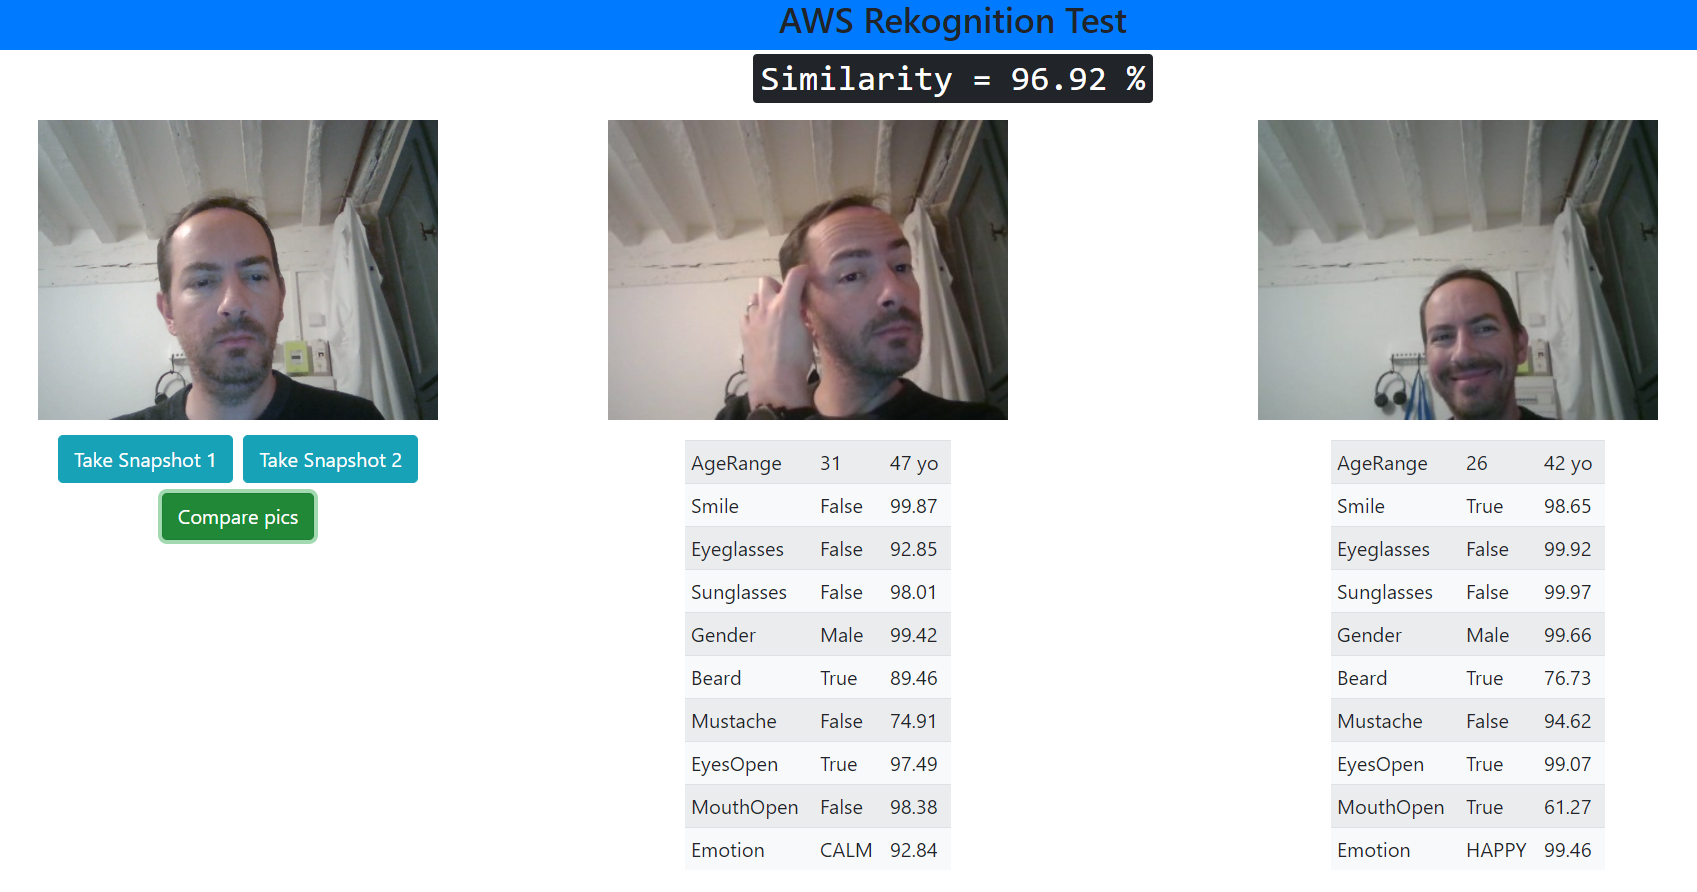
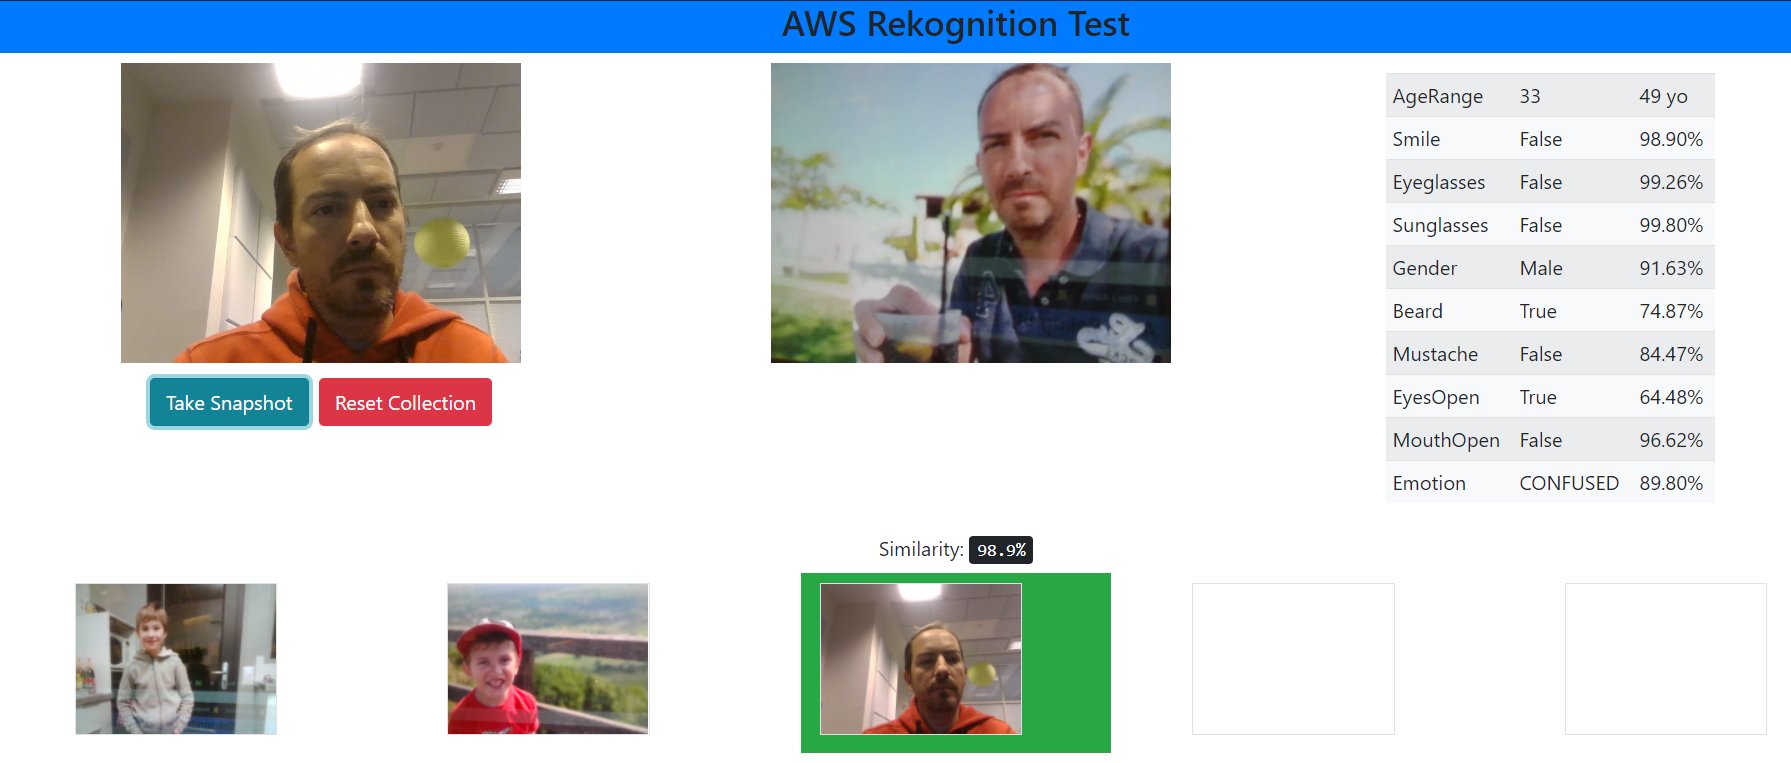
v1.0

diff --git a/AWS-Rekognition/README.md b/AWS-Rekognition/README.md
@@ -5,10 +5,10 @@
 ## Use case:
 
 - html webpage to take a picture using webcam
-
 - upload picture to S3 bucket
 - use facial analysis to extract attributes from pictures (show it)
-- use face comparison to compare with previous image and check if same face is on picture
+- keep up to 5 pictures in collection
+- check for each screenshot if it exists in collection
 
 
 
@@ -162,6 +162,15 @@
   - put frontend IP in chrome to allow webcam
 
     > chrome://flags/#unsafely-treat-insecure-origin-as-secure
+  
+  - do not forget to launch Flask test server
+  
+    ```
+    conda activate flask
+    python ~/AWS-tutorials/AWS-Rekognition/backend/myapp.py
+    ```
+  
+    
 
 
 
